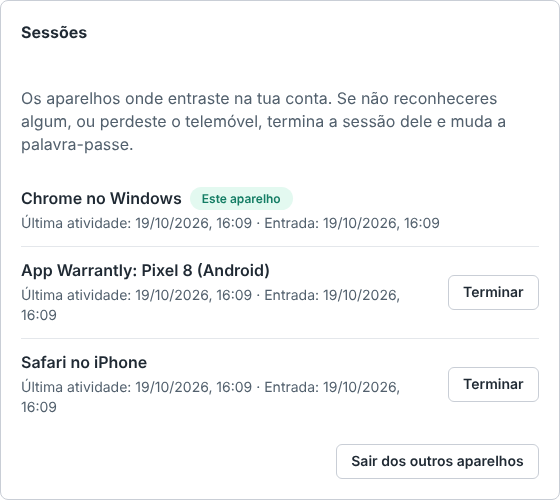
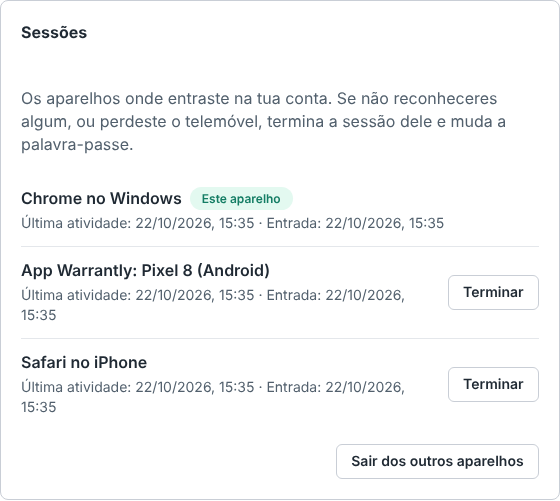
Refresh the README for the public repository (#67)
Update the test counts, add the QR code reading, the store NIF and the
preflight check to the feature list, stack and highlights, and regenerate
the screenshots. The new-purchase screenshot uses a fictitious invoice
with the AT QR code, and the screenshot script sets LANG so Chromium
renders the date field in Portuguese.

Claude-Session: https://claude.ai/code/session_01AWiNXJotBmLdgxgatSz48F

diff --git a/frontend/e2e/screenshots.spec.ts b/frontend/e2e/screenshots.spec.ts
@@ -7,7 +7,8 @@ import { confirmEmail, createPurchase, dateFromToday, PASSWORD } from './helpers
 test.skip(!process.env.SCREENSHOTS, 'só com SCREENSHOTS=1 (npm run screenshots)')
 
 const OUT = new URL('../../docs/images/', import.meta.url).pathname
-const INVOICE = new URL('./fixtures/fatura.pdf', import.meta.url).pathname
+// Uma fatura com o código QR da AT: a leitura preenche também a data, o n.º e o NIF da loja.
+const INVOICE = new URL('./fixtures/fatura-qr.pdf', import.meta.url).pathname
 
 // Uma conta de exemplo (nome fictício), apagada no fim; não aparece o email de teste e2e-….
 const EMAIL = 'ana.silva@exemplo.pt'

diff --git a/README.md b/README.md
@@ -2,7 +2,7 @@
 
 **Arquivo de garantias:** guarda as faturas das tuas compras, calcula até quando cada uma está na garantia, avisa-te antes de expirar e, quando algo avaria, escreve a reclamação para a loja.
 
-Site (React), app móvel (Expo) e API (FastAPI + PostgreSQL), com infraestrutura na AWS em Terraform, CI/CD no GitHub Actions e cerca de 440 testes automáticos.
+Site (React), app móvel (Expo) e API (FastAPI + PostgreSQL), com infraestrutura na AWS em Terraform, CI/CD no GitHub Actions e cerca de 540 testes automáticos.
 
 [![Backend](https://github.com/JoseFerrao20/warrantly/actions/workflows/backend.yml/badge.svg)](https://github.com/JoseFerrao20/warrantly/actions/workflows/backend.yml)
 [![Frontend](https://github.com/JoseFerrao20/warrantly/actions/workflows/frontend.yml/badge.svg)](https://github.com/JoseFerrao20/warrantly/actions/workflows/frontend.yml)
@@ -15,9 +15,9 @@ Site (React), app móvel (Expo) e API (FastAPI + PostgreSQL), com infraestrutura
 
 ![Painel com as garantias, das que expiram primeiro às já expiradas, incluindo uma televisão partilhada pelo Rui Silva](docs/images/painel.png)
 
-| Registar uma compra: a fatura é lida e os campos preenchidos | Reclamação à loja, pronta a enviar |
+| Registar uma compra: a fatura e o código QR são lidos, e os campos preenchidos | Reclamação à loja, pronta a enviar |
 | --- | --- |
-| ![Formulário de nova compra preenchido a partir de uma fatura em PDF](docs/images/nova-compra.png) | ![Reclamação gerada para uma máquina de lavar, com os passos para enviar](docs/images/reclamacao.png) |
+| ![Formulário de nova compra preenchido a partir de uma fatura em PDF com o código QR da AT: produto, loja, preço, data, n.º da fatura, email e NIF da loja](docs/images/nova-compra.png) | ![Reclamação gerada para uma máquina de lavar, com os passos para enviar](docs/images/reclamacao.png) |
 
 | Modo escuro | No telemóvel |
 | --- | --- |
@@ -33,14 +33,14 @@ Em Portugal, os bens novos têm 3 anos de garantia legal (Decreto-Lei n.º 84/20
 
 ## O que a app faz
 
-- **Registar compras com a fatura.** Carregas um PDF ou uma fotografia, e a app lê-a e sugere o produto, a loja, a data, o preço e o n.º da fatura. Confirmas antes de guardar.
+- **Registar compras com a fatura.** Carregas um PDF ou uma fotografia, e a app lê-a e sugere o produto, a loja, a data, o preço e o n.º da fatura. Com o código QR da AT, a data, o total e o NIF da loja vêm dele, sem adivinhar. Confirmas antes de guardar.
 - **Calcular o prazo.** São 3 anos por omissão, ajustáveis para garantias de marca ou bens usados.
 - **Painel.** As garantias aparecem pela ordem em que acabam, com o estado de cada uma. Tem pesquisa e filtros.
 - **Alertas.** Recebes um email e uma notificação na app móvel 60 e 15 dias antes do fim.
 - **Reclamação pronta.** A carta já vem preenchida com os dados da compra e a descrição da avaria, em PDF com a fatura anexada. Abre no teu email com tudo escrito.
 - **Exportar.** Um ZIP com todas as compras (CSV para o Excel e JSON) e as faturas.
 - **Conta.** Recuperação da palavra-passe por email, sessões longas, a lista dos aparelhos com sessão aberta (para terminar a de um telemóvel perdido) e apagar a conta com todos os dados.
-- **App móvel** (Android e iOS). Vês as garantias e registas uma compra fotografando a fatura na loja.
+- **App móvel** (Android e iOS). Vês as garantias e registas uma compra na loja: fotografas a fatura ou só apontas a câmara ao código QR.
 
 ## Arquitetura
 
@@ -73,9 +73,9 @@ flowchart LR
 
 | | |
 | --- | --- |
-| **Backend** | Python 3.12, FastAPI, SQLAlchemy 2, Alembic, PostgreSQL 16, Pydantic, Tesseract (OCR), ReportLab e pypdf (PDF) |
+| **Backend** | Python 3.12, FastAPI, SQLAlchemy 2, Alembic, PostgreSQL 16, Pydantic, Tesseract (OCR), [faturapt](https://github.com/JoseFerrao20/faturapt) (código QR da AT), ReportLab e pypdf (PDF) |
 | **Frontend** | React 19, TypeScript, Vite, React Router, CSS próprio com modo claro e escuro |
-| **App móvel** | Expo SDK 58 (React Native), Expo Router, expo-secure-store, expo-notifications |
+| **App móvel** | Expo SDK 58 (React Native), Expo Router, expo-camera, expo-secure-store, expo-notifications |
 | **Cloud** | AWS: Lambda, S3, CloudFront, SES, SSM, EventBridge Scheduler, CloudWatch, SNS, ECR, IAM. Neon (PostgreSQL) |
 | **Infraestrutura e entrega** | Terraform, Docker, GitHub Actions (CI, deploy com OIDC), Dependabot |
 | **Testes** | pytest, moto, Vitest, Testing Library, jest-expo, Playwright, axe |
@@ -102,15 +102,16 @@ flowchart LR
   - Métricas de negócio pelo Embedded Metric Format, sem chamadas extra à API do CloudWatch.
   - 7 alarmes por email e um dashboard, tudo no nível gratuito.
   - Um dos alarmes avisa quando os alertas diários *deixam* de correr ([ADR 0005](docs/adr/0005-observabilidade.md)).
+- **Primeiro deploy verificado antes de correr.** O `scripts/preflight.py` confirma, passo a passo, o que o roteiro da AWS manda criar: a sessão e a região, o bootstrap, os segredos no SSM (cifrados, diferentes entre si e com o Neon a responder) e as variáveis do GitHub comparadas com a AWS. Não muda nada, nunca mostra um segredo e diz como corrigir cada falha.
 - **Acessibilidade WCAG 2.2 AA.** O axe corre nos testes E2E em todas as páginas, nos dois temas e a 320 px de largura, e há um teste de navegação só com o teclado.
 
 ## Qualidade
 
 | | Testes | No CI |
 | --- | --- | --- |
-| Backend | 311 (pytest, com Postgres; S3, SSM e SES simulados com o moto) | ruff (lint, formatação e regras de segurança do Bandit) |
-| Frontend | 98 (Vitest e Testing Library) | oxlint, TypeScript, build |
-| App móvel | 72 (jest-expo e Testing Library) | ESLint, TypeScript, bundle de Android |
+| Backend | 336 (pytest, com Postgres; S3, SSM, SES e IAM simulados com o moto) | ruff (lint, formatação e regras de segurança do Bandit) |
+| Frontend | 99 (Vitest e Testing Library) | oxlint, TypeScript, build |
+| App móvel | 78 (jest-expo e Testing Library, com a câmara simulada) | ESLint, TypeScript, bundle de Android |
 | De ponta a ponta | 29 (Playwright no Chromium, incluindo o axe e um email de recuperação lido do disco) | contra o Vite e contra o contentor de produção |
 | Infraestrutura | — | `terraform validate` e, com a AWS configurada, o `plan` em cada PR |
 | App publicada | 26 verificações (`scripts/smoke_test.py`: cabeçalhos, rotas fechadas, cookie da sessão, limite de tentativas) | no fim de cada deploy e contra o contentor de produção |
@@ -142,7 +143,7 @@ Cada alteração entra por um PR com o CI verde. As decisões ficam em [`docs/ad
 backend/    API FastAPI, modelos, migrações Alembic e testes
 frontend/   site em React (Vite) e testes E2E (Playwright)
 mobile/     app Expo (Android e iOS)
-scripts/    verificações rápidas de uma app publicada (smoke test)
+scripts/    verificação antes do primeiro deploy e da app publicada (smoke test)
 infra/      Terraform: bootstrap (estado, OIDC, orçamento) e app (Lambda, S3, CloudFront, …)
 docs/       ADR, guia da cloud, push, desenvolvimento e capturas de ecrã
 ```
@@ -181,6 +182,7 @@ O resto está documentado à parte:
 - **Segurança como hábito.** Nem sempre o mais seguro é o mais complicado: o token de recuperação sem tabela, o cookie `HttpOnly` e respostas que não revelam que emails existem. Cada exceção de segurança aceite fica escrita, com a razão.
 - **Testes a vários níveis.** Testes unitários com a AWS simulada, testes de componentes e E2E que seguem um email a sério ou correm contra a imagem de produção. Um teste que falha só quando corre com os outros tem quase sempre um estado partilhado por trás.
 - **Produto.** A leitura da fatura só *sugere*, porque na dúvida é melhor não preencher do que preencher mal. A reclamação é enviada pelo email da própria pessoa, que é o que a loja leva a sério.
+- **Separar o que é genérico.** A leitura do código QR das faturas saiu para uma biblioteca própria, o [faturapt](https://github.com/JoseFerrao20/faturapt), com testes contra a especificação da AT. Assim ficou mais bem testada do que estaria dentro da app, e serve outros projetos.
 - **Processo.** PRs pequenos com o CI verde, uma decisão por ADR e um DEVLOG honesto, com o que falhou e porquê.
 
 O Warrantly foi feito por José Ferrão em sessões com o [Claude Code](https://claude.com/claude-code) como assistente de programação. As decisões, a revisão e os merges foram meus, e o processo está registado no [`DEVLOG.md`](DEVLOG.md).

diff --git a/DEVLOG.md b/DEVLOG.md
@@ -512,6 +512,14 @@
   - **Verificado aqui:** 11 testes novos (336 no backend), com a AWS simulada pelo moto e o `gh` simulado. O moto não tem o `get_account` do SES, por isso esse cliente é um objeto de teste. Também corri o script a sério, sem credenciais, e apareceu um erro: com um `AWS_PROFILE` que não existe, o boto3 falhava logo ao abrir a sessão e o script mostrava um traceback. Passou a mostrar o que fazer.
   - **Lição:** na primeira versão, a região esperada vinha da própria sessão, por isso a verificação passava sempre. A região certa é a do deploy (a variável `AWS_REGION` do GitHub, ou `eu-central-1`). Um teste que estraga a regra e confirma que falha apanha estes casos.
 
+- **2026-10-22 (sessão cloud do Claude Code):** README pronto para quando o repositório for público.
+  - **O que mudou:**
+    - as contagens de testes estavam para trás. Passaram a 336 no backend, 99 no site, 78 na app e 29 E2E, "cerca de 540" no topo;
+    - a leitura pelo código QR, a câmara na app, o NIF da loja e a verificação antes do deploy entraram no "O que a app faz", na stack e nos destaques. O faturapt aparece também no "O que aprendi";
+    - capturas geradas outra vez. A "Nova compra" usa agora uma fatura fictícia com o QR da AT (`e2e/fixtures/fatura-qr.pdf`), por isso a imagem mostra todos os campos preenchidos, incluindo o NIF da loja.
+  - **Problema encontrado:** nas capturas, a data aparecia como "11/14/2025", e as anteriores já tinham o mesmo erro, apesar do `locale: 'pt-PT'` do Playwright. O Chromium desenha o campo de data na língua do sistema operativo. O `npm run screenshots` passou a pôr `LANG=pt_PT.UTF-8`.
+  - **Lição:** olhar para as capturas, e não só confirmar que o script passou. O erro da data estava no README há várias versões.
+
 ## Plano para a próxima sessão (desktop ou portátil, 2–3h)
 
 Contexto: de 2026-10-14 a 2026-10-22 trabalhei em sessões cloud do Claude Code, sem Docker, dev container nem conta AWS (o último PR foi o #61). Tudo está testado no CI: backend com 336 testes, frontend com 99, app móvel com 78, 29 E2E com Playwright, a imagem Docker testada com E2E, e o Terraform validado. O deploy passou do Fly.io para a **AWS**, numa arquitetura serverless ([ADR 0002](docs/adr/0002-arquitetura-serverless.md)). **Ainda nada correu no dev container, no Codespace nem na AWS.**
@@ -571,6 +579,6 @@ Próximos passos, por esta ordem:
 2. **Mostrar o repositório,** depois de a app estar terminada:
    - torná-lo público (liga também o CodeQL e os badges do README);
    - pôr o link da app no README e fixá-lo no perfil do GitHub;
-   - no README do perfil (repositório `JoseFerrao20/JoseFerrao20`), trocar a nota "o repositório fica público…" pelo link e por uma captura;
+   - no README do perfil (repositório `JoseFerrao20/JoseFerrao20`), trocar a nota "o repositório fica público…" pelo link e por uma captura, e atualizar a contagem de testes (cerca de 540);
    - só então, se fizer falta, a descrição para o CV ou o LinkedIn.
 

diff --git a/CLAUDE.md b/CLAUDE.md
@@ -70,7 +70,7 @@ terraform fmt -recursive && terraform -chdir=app init -backend=false && terrafor
 - Métricas: cada nome novo em `metric(...)` é uma métrica personalizada no CloudWatch, e o nível gratuito tem 10 (já estão todas usadas; ver ADR 0005). Antes de criar outra, usar `properties` (ficam no log, sem custo) ou trocar uma existente. As rotas nos logs são o modelo (`/purchases/{purchase_id}`), nunca o caminho com ids.
 - Segurança no CI: o ruff tem as regras `S` (Bandit); um `# noqa: S…` leva sempre a razão ao lado. Uma falha nova do Checkov corrige-se ou, se não se aplicar, entra no `skip-check` do `.checkov.yaml` com a razão. Não instalar o Checkov no `.venv` do backend: muda versões do botocore e aparecem avisos nos testes. As tags do ECR são imutáveis: o deploy reutiliza a imagem se o SHA já existir.
 - Ícones: o desenho está em `frontend/scripts/icons/generate.mjs` e `npm run icons` (pasta `frontend/`) gera o favicon do site e os ícones e o ecrã de arranque da app (`mobile/assets/`). Não editar os PNG à mão.
-- README: as capturas em `docs/images/` geram-se com `npm run screenshots` (pasta `frontend/`, conta de exemplo `ana.silva@exemplo.pt`, apagada no fim); voltar a gerá-las quando o aspeto mudar. As contagens de testes do README e do DEVLOG atualizam-se à mão.
+- README: as capturas em `docs/images/` geram-se com `npm run screenshots` (pasta `frontend/`, conta de exemplo `ana.silva@exemplo.pt`, apagada no fim); voltar a gerá-las quando o aspeto mudar. O script põe `LANG=pt_PT.UTF-8`, porque o Chromium desenha o campo de data na língua do sistema, e não na do `locale` do Playwright. A "Nova compra" usa a `e2e/fixtures/fatura-qr.pdf` (fatura fictícia com o QR da AT, NIF 500000000). As contagens de testes do README e do DEVLOG atualizam-se à mão.
 - O React StrictMode corre os efeitos duas vezes em desenvolvimento: não contar com "primeira execução" num `useEffect`.
 - O pytest trata `StarletteDeprecationWarning` como erro: o `TestClient` precisa do `httpx2`, não do `httpx`.
 - Email pelo SES: os domínios de exemplo (`example.com`, `.test`, …) nunca são enviados (`mailer.is_reserved_address`), porque o smoke test cria contas `smoke-…@example.com` e o registo envia a confirmação. Nos outros modos (ficheiro, Mailpit), os testes usam-nos à vontade.
